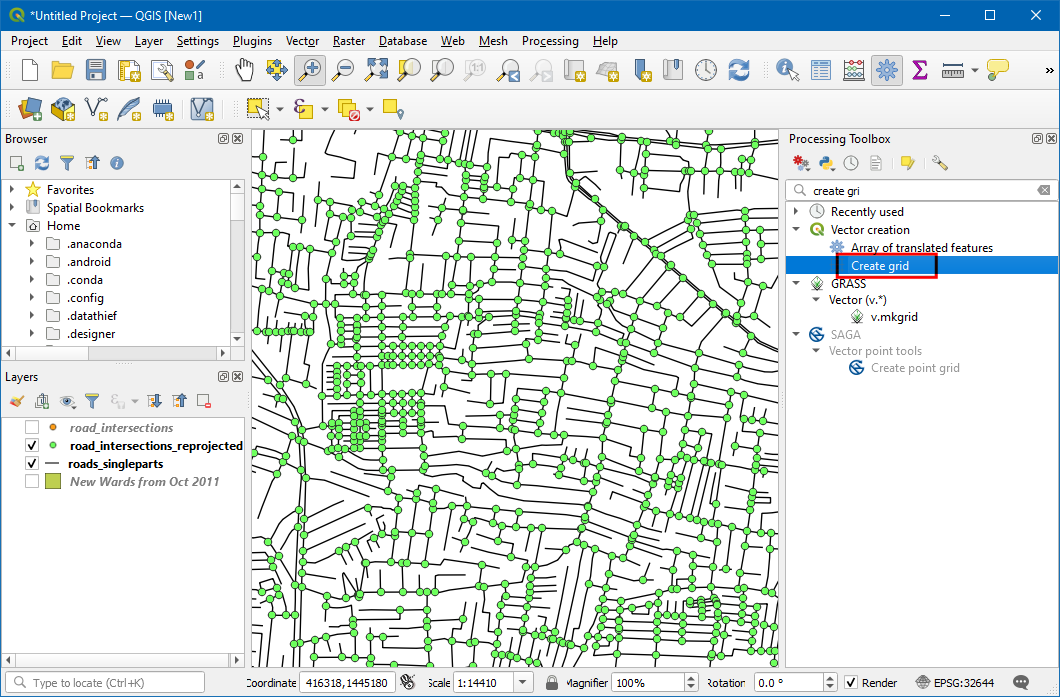
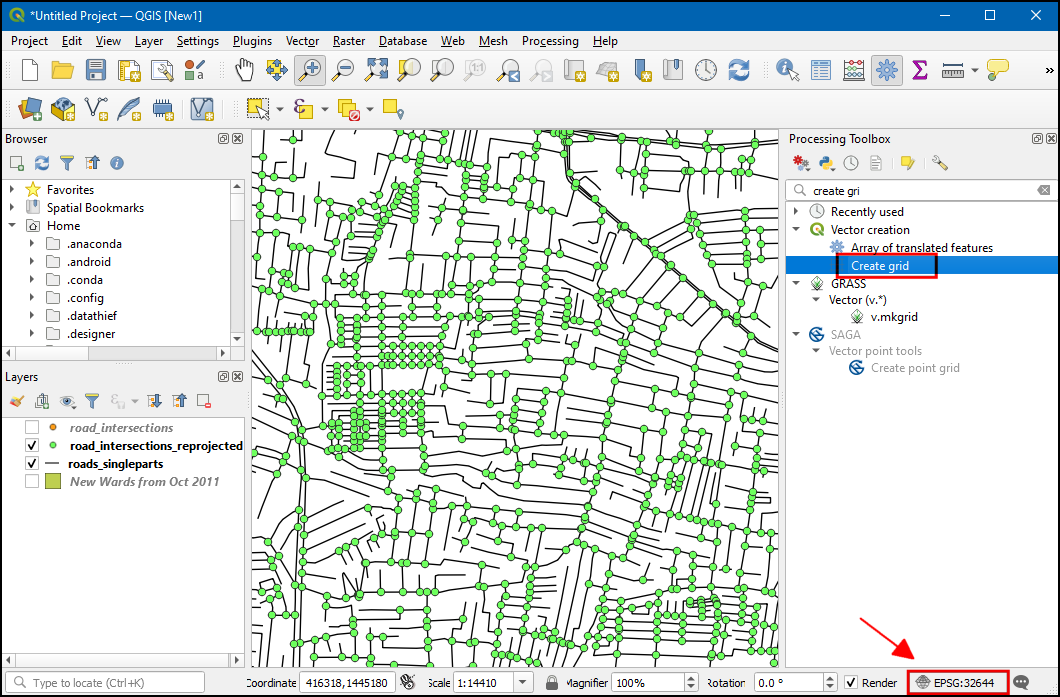
step 17 updated, highlighted Project CRS

Changed region(s): [[0.0, 0.0, 1.0, 1.0], [0.0, 0.0, 0.0311, 0.0301]]

diff --git a/source/docs/3/calculating_intersection_density.rst b/source/docs/3/calculating_intersection_density.rst
@@ -186,7 +186,7 @@ Procedure
      :align: center
 
 
-17. Now we can create the grid. Open the Processing Toolbox and locate the :menuselection:`Vector creation --> Create grid` algorithm. Double click to open. 
+17. Project CRS will be updated in the bottom right of the window, and now we can create the grid. Open the Processing Toolbox and locate the :menuselection:`Vector creation --> Create grid` algorithm. Double click to open. 
 
   .. image:: /static/3/calculating_intersection_density/images/image17.png
      :align: center
